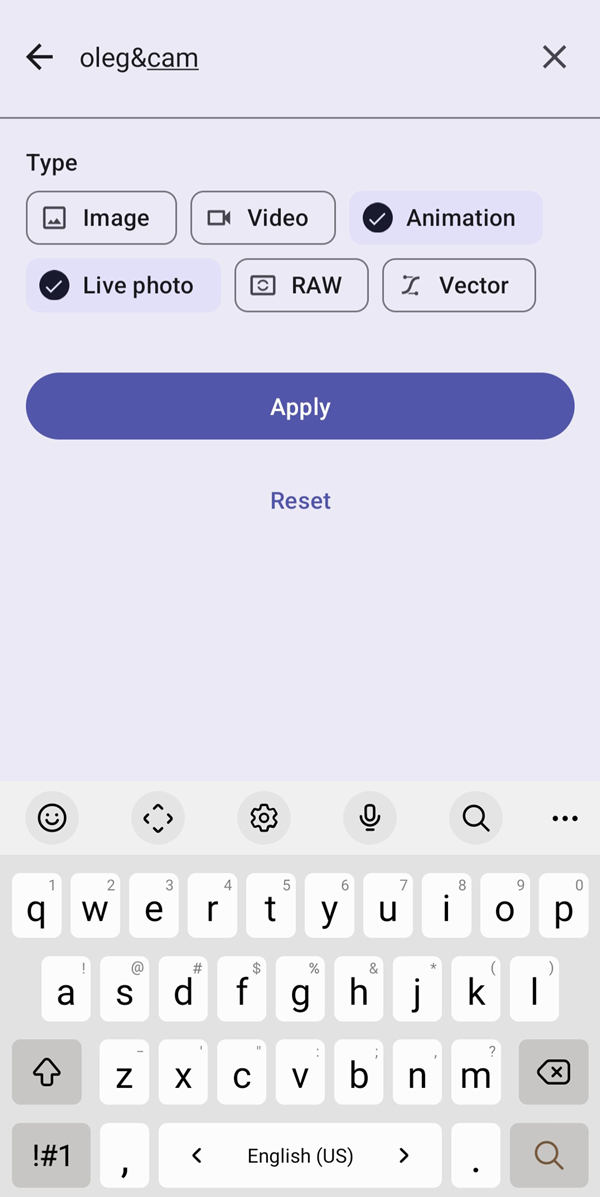
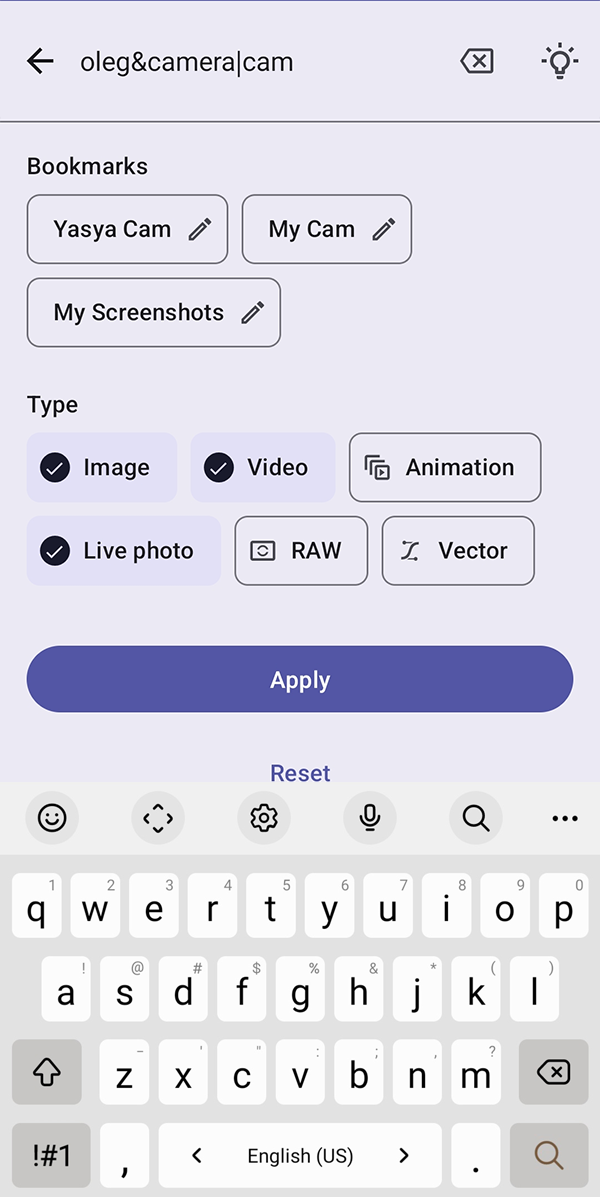
Update version to 1.1.0(4)

diff --git a/README.md b/README.md
@@ -11,22 +11,30 @@ A native Android gallery and content provider for your [PhotoPrism library](http
 
 The official PhotoPrism PWA, despite being mobile-friendly, can't be integrated into the OS and has other drawbacks.
 This app does not (and probably will not) support all the web-client features, but nevertheless it can:
-- [x] Provide the library content to other Android apps – you can select PhotoPrism Gallery among other galleries when picking a photo or video
-- [x] Open the library content in suitable apps – you can use your favorite image editor or video player instead of web viewer
+- Provide the library content to other Android apps – 
+you can select PhotoPrism Gallery among other galleries when picking a photo or video
+- Open the library content in suitable apps –
+you can use your favorite image editor or video player instead of web viewer
 
 ## Other features
 - [x] Chronological grouping
 - [x] Search by media types and custom queries
-- [ ] Saved searches
+- [x] Search bookmarks – the search configuration can be bookmarked and applied later with a click
 - [ ] Chronological fast scroll
 - [x] Endless session (no need to re-enter password)
 
 ## Content sync
-The gallery is not intended to sync content with the library. I recommend using [Autosync app](https://play.google.com/store/apps/details?id=com.ttxapps.autosync).
+The gallery is not intended to sync content with the library. 
+I recommend using [Autosync app](https://play.google.com/store/apps/details?id=com.ttxapps.autosync).
 
 ## Compatibility
-The gallery is confirmed to work with PhotoPrism versions from [November 18, 2022](https://github.com/photoprism/photoprism/releases/tag/221118-e58fee0fb) down to [October 9, 2021](https://github.com/photoprism/photoprism/releases/tag/211009-d6cc8df5). It may work with older ones though, I just haven't tested it.
-The app uses [PhotoPrism Web Service API](https://docs.photoprism.app/developer-guide/api/), which serves only the original frontend needs and doesn't guarantee backward compatibility. When a new version of PhotoPrism comes out, the app may break.
+The gallery is confirmed to work with PhotoPrism versions from 
+[November 18, 2022](https://github.com/photoprism/photoprism/releases/tag/221118-e58fee0fb) 
+down to [October 9, 2021](https://github.com/photoprism/photoprism/releases/tag/211009-d6cc8df5). 
+It may work with older ones though, I just haven't tested it.
+The app uses [PhotoPrism Web Service API](https://docs.photoprism.app/developer-guide/api/), 
+which serves only the original frontend needs and doesn't guarantee backward compatibility. 
+When a new version of PhotoPrism comes out, the app may break.
 
 ## Download
 - [APK from the latest release](https://github.com/Radiokot/photoprism-android-client/releases/latest)
@@ -39,4 +47,5 @@ The app uses [PhotoPrism Web Service API](https://docs.photoprism.app/developer-
 - Koin dependency injection
 - OkHTTP + Retrofit
 - ViewModel
+- Room
 - kotlin-logging with slf4j-handroid

diff --git a/CHANGELOG.md b/CHANGELOG.md
@@ -8,8 +8,12 @@ and this project adheres to [Semantic Versioning](https://semver.org/spec/v2.0.0
 ## [Unreleased]
 
 ### Added
-- Search bookmarks – a search configuration can be bookmarked and applied later
-in a single click
+- Search bookmarks – the search configuration can be bookmarked and applied later with a click
+- Search filters guide shortcut to the search screen
+
+### Changed
+- "Clear text" button icon on the search screen made different from the "Reset search" button
+icon on the main screen
 
 ## [1.0.2] - 2022-03-26
 
@@ -27,6 +31,7 @@ in a single click
 - "Library is not accessible" during the connection, when the entered root URL doesn't match the 
 `PHOTOPRISM_SITE_URL` server config value 
 
-[Unreleased]: https://github.com/Radiokot/photoprism-android-client/compare/1.0.2(3)...HEAD
+[Unreleased]: https://github.com/Radiokot/photoprism-android-client/compare/1.1.0(4)...HEAD
+[1.1.0]: https://github.com/Radiokot/photoprism-android-client/compare/1.0.2(3)...1.1.0(4)
 [1.0.2]: https://github.com/Radiokot/photoprism-android-client/compare/1.0.1(2)...1.0.2(3)
 [1.0.1]: https://github.com/Radiokot/photoprism-android-client/compare/1.0.0(1)...1.0.1(2)
